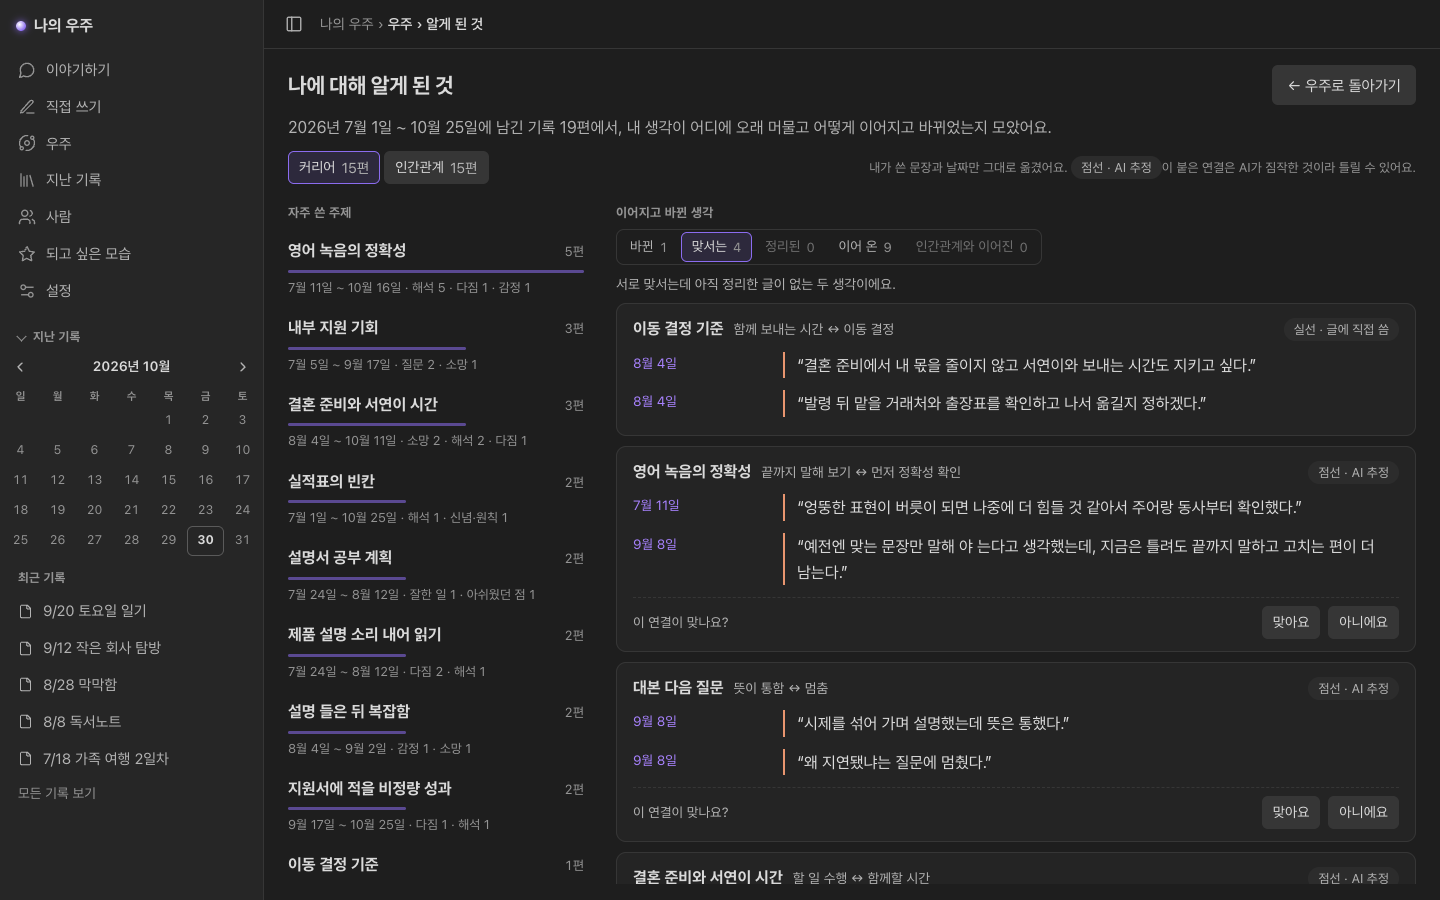
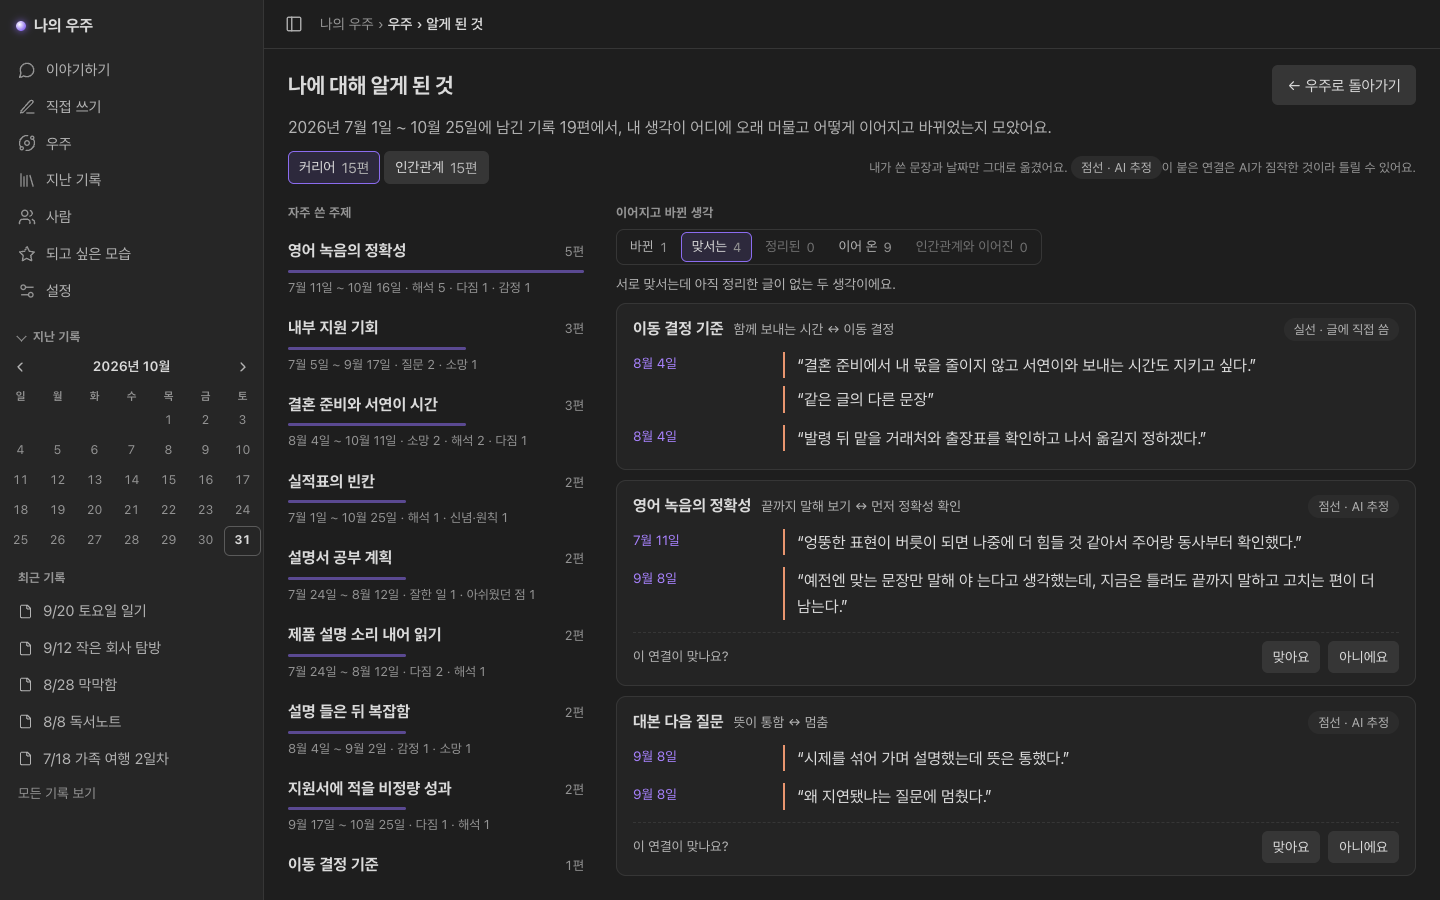
알게 된 것: 같은 두 기록 사이 관계를 숨기지 않고 카드 하나로 합쳐 양쪽 문장을 모두 보임(동규 「하나만 보여 주면 손실」)
같은 작은 별 · 같은 두 기록(a.record_id, b.record_id) 관계를 한 카드로 묶고 froms · tos 에 원문을 모두 담음. 모두 실선일 때만 실선, 맞아요 · 아니에요는 카드 안 점선 관계 모두에(rids). 바뀐 · 맞서는 · 정리된 세 탭 같은 규칙. 시험 781 · 알게 된 것 e2e 8

diff --git a/infra/frontend/e2e/insight.spec.ts b/infra/frontend/e2e/insight.spec.ts
@@ -146,6 +146,8 @@ test("점선 카드에서 맞아요 · 아니에요(사용자가 매긴 정답) 
   page.on("pageerror", (e) => errors.push(e.message));
   const data = structuredClone(two);
   data.suns[0].open = data.suns[0].open.map((p, i) => ({ ...p, rid: `r${i}` }));   // 서버는 관계 id(rid)를 함께 준다
+  const o0 = data.suns[0].open[0];   // 같은 두 기록 사이 관계 둘을 합친 카드(rules.insight._cards): 문장 모두 · 버튼은 두 관계에
+  data.suns[0].open[0] = { ...o0, froms: [o0.from, { ...o0.from, thought_id: "t-more", quote: "같은 글의 다른 문장" }], tos: [o0.to], rids: ["r0", "r0b"] } as unknown as typeof o0;
   await fake(page, data);
   await page.addInitScript(() => {   // 반응이 쌓여 서버가 그 사람 설정을 한 칸 옮긴 뒤(가짜)
     (window as unknown as { __pref: unknown }).__pref = [{ id: "p1", at: "2026-10-30T09:00:00+09:00", setting: "cross_links",
@@ -162,6 +164,7 @@ test("점선 카드에서 맞아요 · 아니에요(사용자가 매긴 정답) 
   const cards = shown(page).locator(".ins-card");
   const n = await cards.count();
   await expect(cards.first().getByRole("group", { name: "이 연결이 맞나요?" })).toBeVisible();
+  await expect(cards.first()).toContainText("같은 글의 다른 문장");
   await cards.first().getByRole("button", { name: "맞아요" }).click();
   await expect(cards.first()).toContainText("실선 · 글에 직접 씀");               // 맞아요 → 실선, 버튼은 사라짐
   await expect(cards.first().getByRole("group", { name: "이 연결이 맞나요?" })).toHaveCount(0);

diff --git a/infra/frontend/lib/api.ts b/infra/frontend/lib/api.ts
@@ -247,7 +247,8 @@ export async function getUniverse(): Promise<Universe> {
 }
 // 나에 대해 알게 된 것(docs/api-v8.md §2, 서버 app/service/rules/insight.py): 코드가 묶은 것, 날짜와 원문 인용만
 export type InsightEnd = { day: string; quote: string; record_id: string; thought_id: string };
-export type InsightPair = { star: string; line: "실선" | "점선" | null; from: InsightEnd; to: InsightEnd; axis?: string; rid?: string | null };
+export type InsightPair = { star: string; line: "실선" | "점선" | null; from: InsightEnd; to: InsightEnd; axis?: string; rid?: string | null;
+  froms?: InsightEnd[]; tos?: InsightEnd[]; rids?: string[] };   // 같은 두 기록 사이 관계를 합친 카드: 양쪽 문장 모두 · 점선 관계 모두
 export type Insight = {
   period: { from: string; to: string; records: number } | null;
   suns: { name: string; records: number;

diff --git a/infra/frontend/app/globals.css b/infra/frontend/app/globals.css
@@ -652,6 +652,7 @@ main.ins { max-width: 1280px; height: calc(100dvh - 49px); display: flex; flex-d
 .ins-when { color: var(--faint); font-size: .84rem; line-height: 1.7; white-space: nowrap; }
 .ins-q p { margin: 0; border-left: 2px solid var(--accent); padding-left: 12px; line-height: 1.65; color: #dcdcdc; }
 .ins-q.o p { border-color: var(--orange); }
+.ins-qs { display: grid; gap: 8px; min-width: 0; }
 .ins-check { display: flex; align-items: center; gap: 8px; flex-wrap: wrap; margin-top: 6px; padding-top: 8px; border-top: 1px dashed var(--line); }
 .ins-check .sub { font-size: .84rem; margin-right: auto; }
 @media (max-width: 899px) {

diff --git a/app/service/rules/insight.py b/app/service/rules/insight.py
@@ -25,15 +25,28 @@ def _no_shortcuts(rs):
     return [r for r in rs if not any(reach(m, r["b"]["id"]) for m in nxt[r["a"]["id"]] - {r["b"]["id"]})]
 
 
-def _one_per_pair(rs):
-    """같은 작은 별에서 같은 두 기록 사이 관계는 카드 하나만(실선 먼저). 앞 글의 생각 둘이 뒤 글의 같은 생각과 이어져
-    '지금' 인용이 두 번 보였다(가상 인물 E 7/4 → 8/20, 2026-10-31)."""
-    key = lambda r: (r["b"]["topic"], r["a"]["record_id"], r["b"]["record_id"])   # noqa: E731
-    keep = {}
+def _cards(rs, pair):
+    """같은 작은 별 · 같은 두 기록 사이 관계는 카드 하나로 합치고 양쪽 원문은 모두 보인다(froms · tos). 앞 글의 생각 둘이 뒤 글의
+    같은 생각과 이어져 '지금' 인용이 두 번 보였다(가상 인물 E 7/4 → 8/20, 2026-10-31). 하나만 남기면 다른 '그때' 문장이 사라졌다.
+    모두 실선일 때만 실선, 맞아요 · 아니에요는 점선 관계 모두에(rids)."""
+    groups = {}
     for r in rs:
-        if key(r) not in keep or (r.get("line") == "실선" and keep[key(r)].get("line") != "실선"):
-            keep[key(r)] = r
-    return [r for r in rs if keep[key(r)] is r]
+        groups.setdefault((r["b"]["topic"], r["a"]["record_id"], r["b"]["record_id"]), []).append(r)
+    out = []
+    for g in groups.values():
+        c = pair(g[0])
+        if len(g) > 1:
+            lines = {r.get("line") for r in g}
+            c["line"] = lines.pop() if len(lines) == 1 else "점선"
+            c["rids"] = [r["id"] for r in g if r.get("line") == "점선" and r.get("id")]
+            c["rid"] = c["rids"][0] if c["rids"] else None
+            axes = list(dict.fromkeys(r["axis"] for r in g if r.get("axis")))
+            if axes:
+                c["axis"] = " / ".join(axes)
+        c["froms"] = list({e["thought_id"]: e for e in (_end(r["a"]) for r in g)}.values())
+        c["tos"] = list({e["thought_id"]: e for e in (_end(r["b"]) for r in g)}.values())
+        out.append(c)
+    return out
 
 
 def insight(thoughts, relations, suns=()):
@@ -74,10 +87,9 @@ def insight(thoughts, relations, suns=()):
                     k["from"] = _end(r["a"])
         out.append({"name": sun, "records": len({t["record_id"] for t in ts}), "stars": stars,
                     "kept": sorted(kept.values(), key=lambda k: -k["times"]),
-                    "changed": [pair(r) for r in _one_per_pair(_no_shortcuts([r for r in mine if r["type"] == "바뀜"]))],
-                    "open": [pair(r) for r in _one_per_pair([r for r in mine if r["type"] == "긴장"
-                                                             and not {r["a"]["id"], r["b"]["id"]} & resolved])],
-                    "settled": [pair(r) for r in _one_per_pair([r for r in mine if r["type"] == "해소"])]})
+                    "changed": _cards(_no_shortcuts([r for r in mine if r["type"] == "바뀜"]), pair),
+                    "open": _cards([r for r in mine if r["type"] == "긴장" and not {r["a"]["id"], r["b"]["id"]} & resolved], pair),
+                    "settled": _cards([r for r in mine if r["type"] == "해소"], pair)})
     across = [{"type": r["type"], "suns": [r["a"]["domain"], r["b"]["domain"]], "from": _end(r["a"]), "to": _end(r["b"]),
                "rid": r.get("id"), "line": r.get("line")}
               for r in rels if r["a"].get("domain") != r["b"].get("domain")

diff --git a/tests/test_rules_topics.py b/tests/test_rules_topics.py
@@ -150,14 +150,18 @@ def test_insight_changed_skips_the_shortcut_of_a_chain():
     assert [(p["from"]["thought_id"], p["to"]["thought_id"]) for p in sun["changed"]] == [("x", "y"), ("y", "z"), ("w", "z")]
 
 
-def test_insight_one_card_per_two_records():
-    """앞 글의 생각 둘이 뒤 글의 같은 생각과 '바뀜'으로 이어지면 카드는 하나(실선 먼저). 다른 작은 별이면 따로(가상 인물 E, 2026-10-31)."""
+def test_insight_one_card_per_two_records_keeps_every_quote():
+    """앞 글의 생각 둘이 뒤 글의 같은 생각과 '바뀜'으로 이어지면 카드는 하나, 원문은 둘 다(froms). 하나라도 점선이면 점선이고
+    맞아요 · 아니에요는 점선 관계 모두에(rids). 다른 작은 별이면 따로(가상 인물 E, 2026-10-31)."""
     from app.service.rules import insight
     T = lambda i, rec, day, topic="실습": {"id": i, "record_id": rec, "day": day, "topic": topic, "domain": "미래 안정",  # noqa: E731
                                           "kind": "해석", "quote": i}
     ts = {"a1": T("a1", "r1", "2026-07-04"), "a2": T("a2", "r1", "2026-07-04"), "b": T("b", "r2", "2026-08-20"),
           "c1": T("c1", "r1", "2026-07-04", "가게"), "c2": T("c2", "r2", "2026-08-20", "가게")}
-    rels = [{"type": "바뀜", "from": "a1", "to": "b", "line": "점선"}, {"type": "바뀜", "from": "a2", "to": "b", "line": "실선"},
-            {"type": "바뀜", "from": "c1", "to": "c2", "line": "점선"}]
+    rels = [{"id": "x1", "type": "바뀜", "from": "a1", "to": "b", "line": "점선"}, {"id": "x2", "type": "바뀜", "from": "a2", "to": "b", "line": "실선"},
+            {"id": "x3", "type": "바뀜", "from": "c1", "to": "c2", "line": "점선"}]
     (sun,) = insight(ts, rels)["suns"]
-    assert [(p["from"]["thought_id"], p["to"]["thought_id"]) for p in sun["changed"]] == [("a2", "b"), ("c1", "c2")]
+    one, other = sun["changed"]
+    assert [e["quote"] for e in one["froms"]] == ["a1", "a2"] and [e["quote"] for e in one["tos"]] == ["b"]
+    assert one["line"] == "점선" and one["rids"] == ["x1"] and one["rid"] == "x1"
+    assert other["froms"][0]["quote"] == "c1" and "rids" not in other and other["rid"] == "x3"
